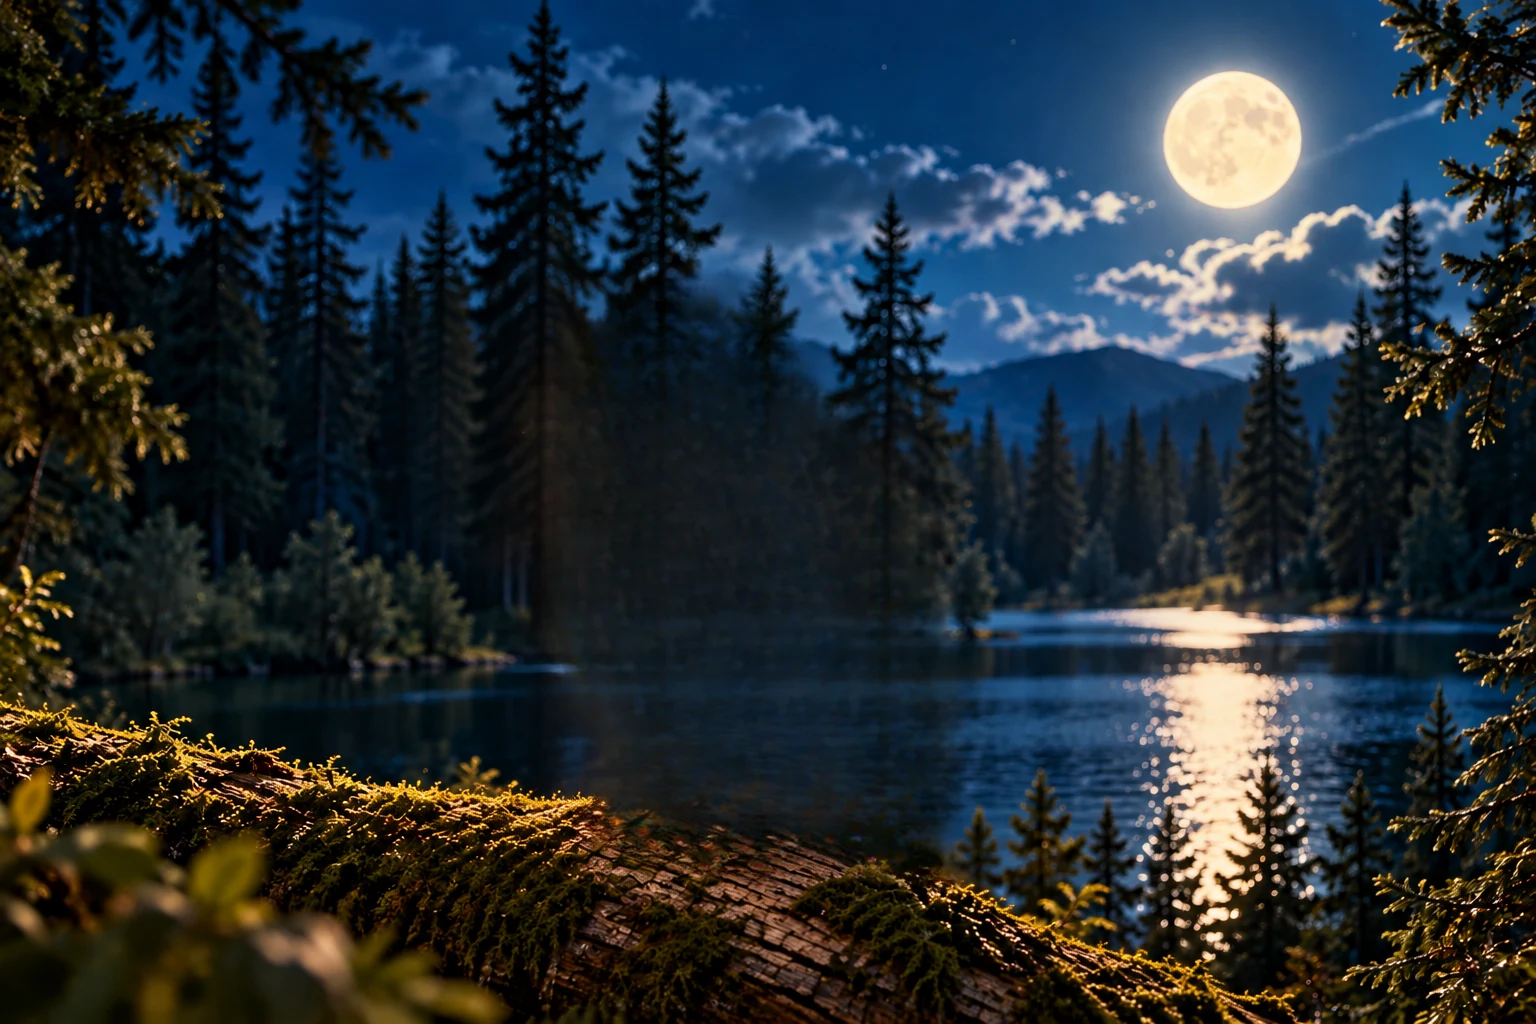
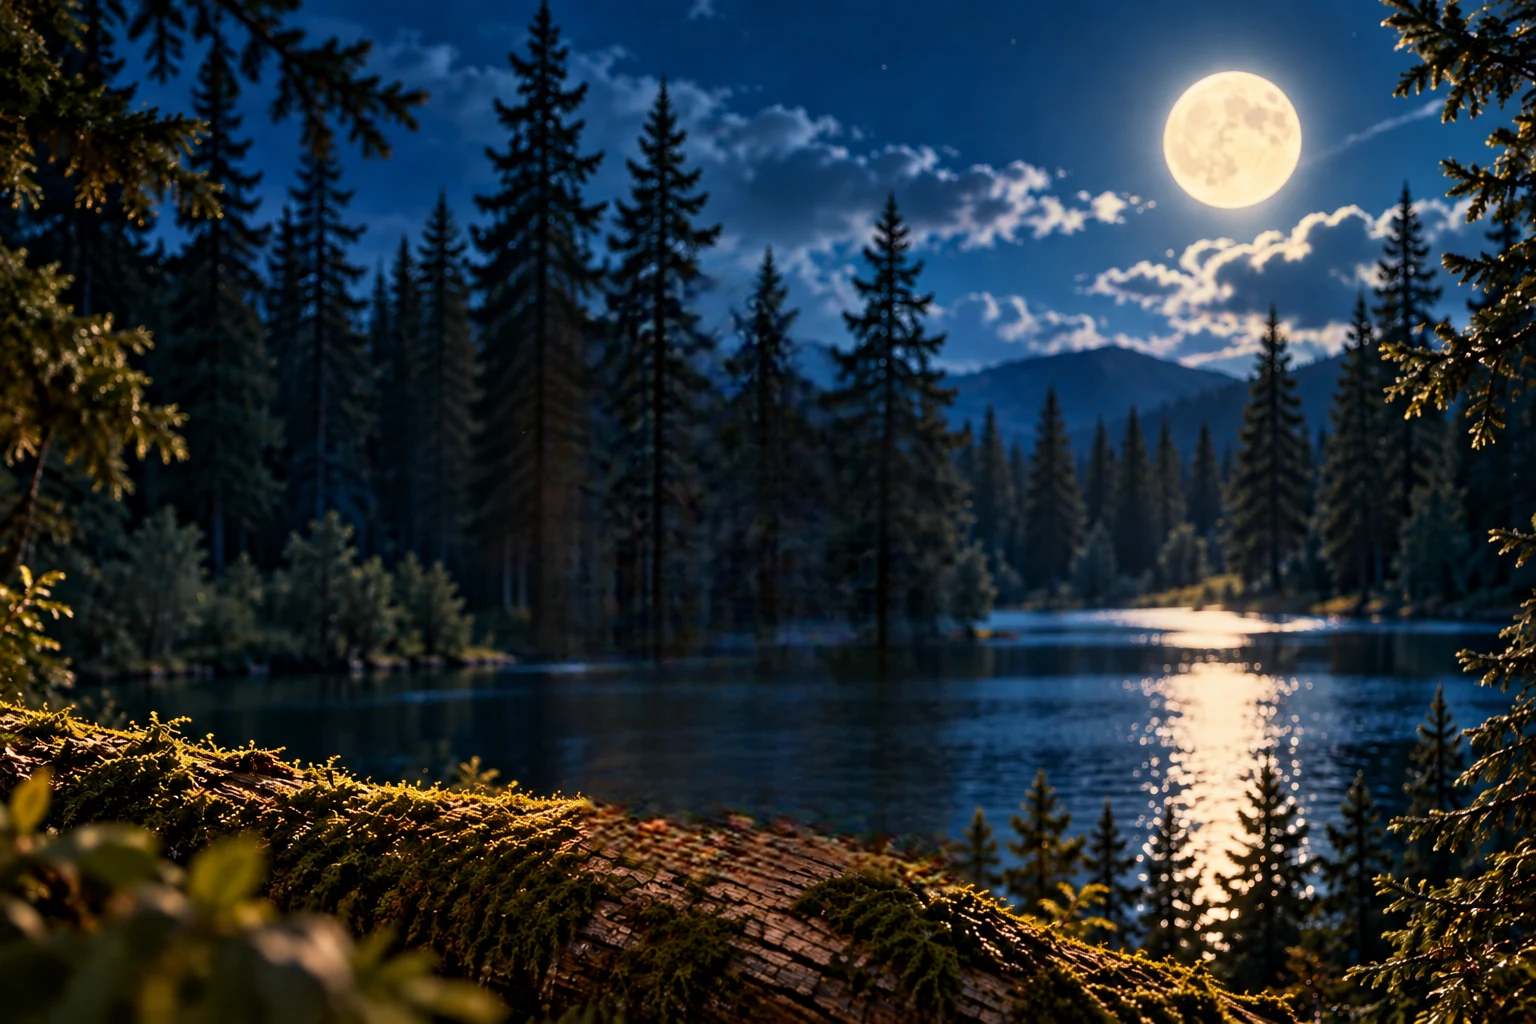
Fix lines around owl

diff --git a/script.js b/script.js
@@ -90,7 +90,7 @@ if (hero && stage && head) {
         ty = Math.sin(t / 3100) * 0.4;
       }
       x += (tx - x) * 0.09; y += (ty - y) * 0.09;
-      head.style.transform = `translate3d(${x * 0.5}%, ${y * 0.45}%, 0) rotate(${x * 9}deg)`;
+      head.style.transform = `translate3d(${x * 0.28}%, ${y * 0.25}%, 0) rotate(${x * 5}deg)`;
       if (flight) flight.tick();
       if (visible) requestAnimationFrame(frame); else running = false;
     }
